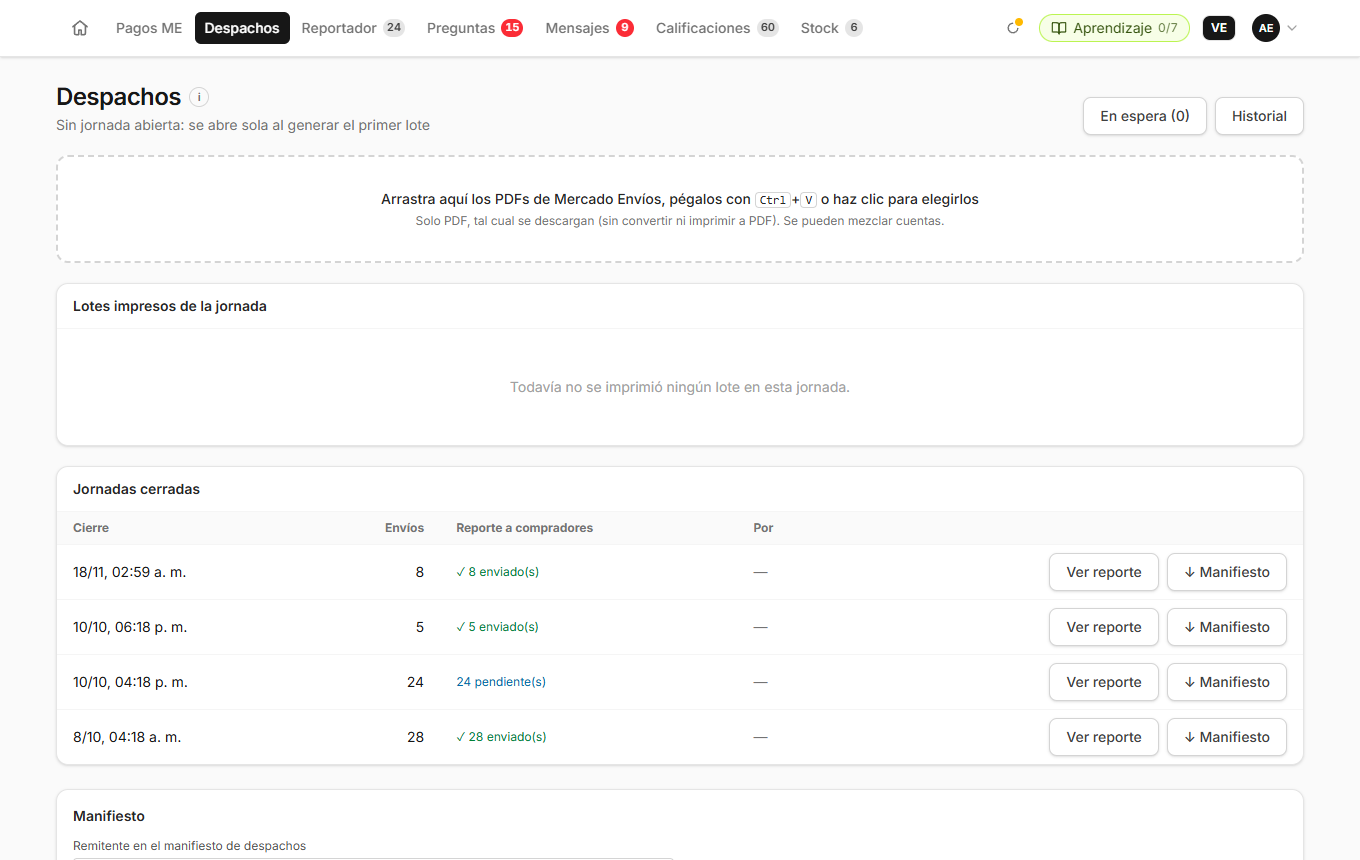
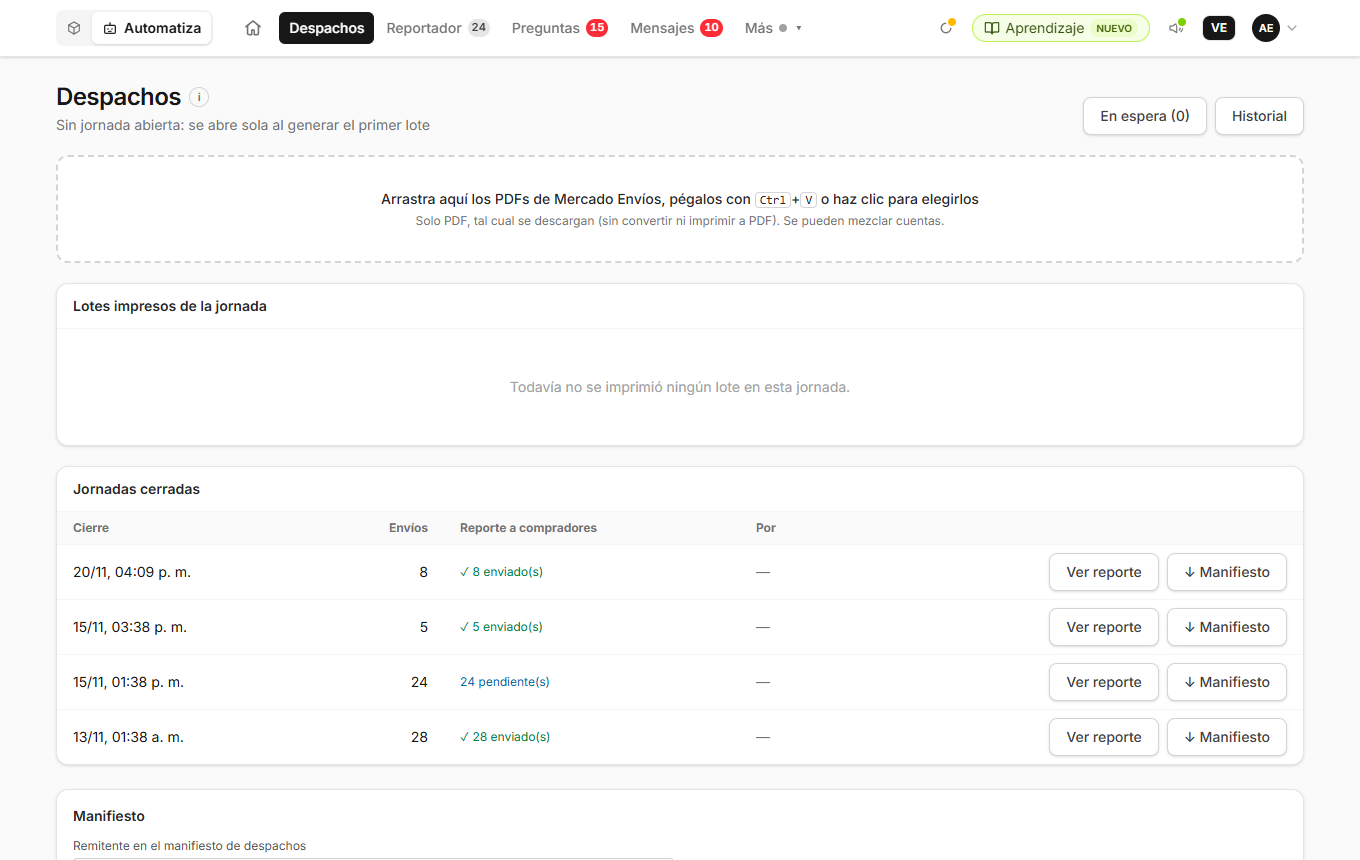
Celular: interruptor de espacio solo con íconos (la barra no entraba con el selector de empresa) y «Al día» de Para hoy en la línea del título; capturas de Automatiza con el interruptor
(cherry picked from commit 2ebea870a5d051df628ad6add09d372c5b2fa599)

diff --git a/components/dashboard/AccionesInicio.tsx b/components/dashboard/AccionesInicio.tsx
@@ -144,12 +144,15 @@ function BotonMas({ etiqueta, href, onClick, abierto }: { etiqueta: string; href
 function Columna({ titulo, href, items, boton }: { titulo: string; href: string; items: Item[]; boton?: React.ReactNode }) {
   const cargando = items.some(i => i.n == null)
   const conAlgo = items.filter(i => (i.n ?? 0) > 0)
+  const alDia = !cargando && conAlgo.length === 0
   return (
     <div className="min-w-0 px-4 py-3 sm:px-5">
       <div className="mb-1.5 flex h-7 items-center justify-between gap-2">
         <Link href={href} className="group/t inline-flex items-center gap-0.5 text-sm font-medium text-neutral-800 hover:text-neutral-950">
           {titulo}<span aria-hidden className="text-neutral-400 transition-transform group-hover/t:translate-x-0.5">›</span>
         </Link>
+        {/* Celular: «Al día» en la línea del título (las columnas van una debajo de otra: no gasta una fila). */}
+        {alDia && <span className="mr-auto ml-2 sm:hidden"><AlDia /></span>}
         {boton}
       </div>
       {conAlgo.length > 0 ? (
@@ -176,11 +179,17 @@ function Columna({ titulo, href, items, boton }: { titulo: string; href: string;
           <div className="h-5 w-3/4 animate-pulse rounded bg-neutral-100" />
         </div>
       ) : (
-        <p className="flex items-center gap-1.5 py-1 text-[13px] text-emerald-700">
-          <span aria-hidden className="flex h-4 w-4 items-center justify-center rounded-full bg-emerald-600 text-[10px] font-bold text-white">✓</span>
-          Al día
-        </p>
+        <p className="hidden py-1 sm:block"><AlDia /></p>
       )}
     </div>
+  )
+}
+
+function AlDia() {
+  return (
+    <span className="inline-flex items-center gap-1.5 text-[13px] text-emerald-700">
+      <span aria-hidden className="flex h-4 w-4 items-center justify-center rounded-full bg-emerald-600 text-[10px] font-bold text-white">✓</span>
+      Al día
+    </span>
   )
 }

diff --git a/components/layout/EspacioSwitcher.tsx b/components/layout/EspacioSwitcher.tsx
@@ -60,7 +60,8 @@ export default function EspacioSwitcher({ automatizaciones, inventario, modulos 
             className={`group relative flex h-8 items-center gap-1.5 rounded-md text-sm font-semibold transition-colors focus-visible:outline-none focus-visible:ring-2 focus-visible:ring-sky-500/60 ${
               activo ? 'bg-white px-2.5 text-neutral-900 shadow-sm' : 'px-2 text-neutral-500 hover:bg-white/70 hover:text-neutral-800'}`}>
             <Icono de={o.id} />
-            {activo && <span>{NOMBRES[o.id]}</span>}
+            {/* En el celular solo los íconos (el marcado dice dónde estás): con el selector de empresa no entraba. */}
+            {activo && <span className="hidden sm:inline">{NOMBRES[o.id]}</span>}
             {!activo && urgente && <span aria-hidden className="absolute right-1 top-1 h-2 w-2 rounded-full bg-red-500 ring-2 ring-neutral-100" />}
             {!activo && (
               <span role="tooltip" className="pointer-events-none absolute left-1/2 top-full z-30 mt-1.5 -translate-x-1/2 whitespace-nowrap rounded-md bg-neutral-900 px-2 py-1 text-[11px] font-medium text-white opacity-0 shadow-sm transition-opacity delay-100 group-hover:opacity-100 group-focus-visible:opacity-100">

diff --git a/docs/ayuda/sistema.md b/docs/ayuda/sistema.md
@@ -36,7 +36,8 @@ Lo que no es de ningún espacio (Usuarios, Aprendizaje, Novedades) está en todo
 empresa tiene los dos). El espacio donde estás va marcado con su nombre; el otro, con su ícono. Si Automatiza tiene
 algo **urgente** (preguntas, mensajes o calificaciones negativas) lleva un **punto rojo**; lo que puede esperar (guías,
 despachos, por calificar) no se marca aquí: tiene su número adentro, en cada menú. Un clic cambia; al pasar el mouse
-dice cuál es y, si hay algo urgente, qué («Automatiza: 2 preguntas, 1 mensaje»). El **Radar** se abre desde el menú de tu cuenta (arriba a la derecha): **Radar ↗**.
+dice cuál es y, si hay algo urgente, qué («Automatiza: 2 preguntas, 1 mensaje»). En el celular se ven solo los dos íconos (el
+marcado es donde estás). El **Radar** se abre desde el menú de tu cuenta (arriba a la derecha): **Radar ↗**.
 
 **Inicio de Automatizaciones** (el primer botón del menú de Automatizaciones):
 - **Primeros pasos** (20-11-2026; arriba, solo para quien conecta las cuentas de ML): una lista corta que se marca sola.
